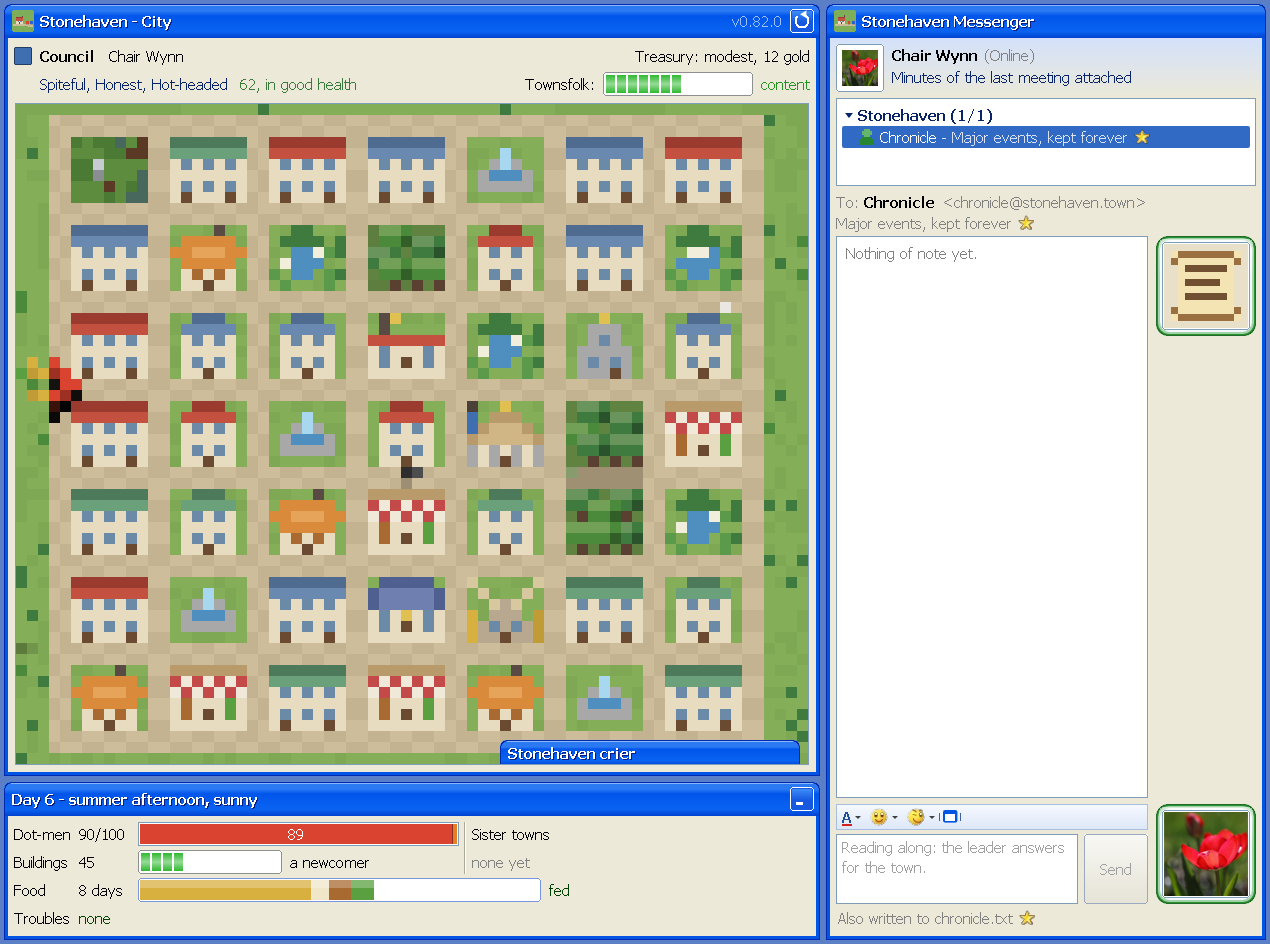
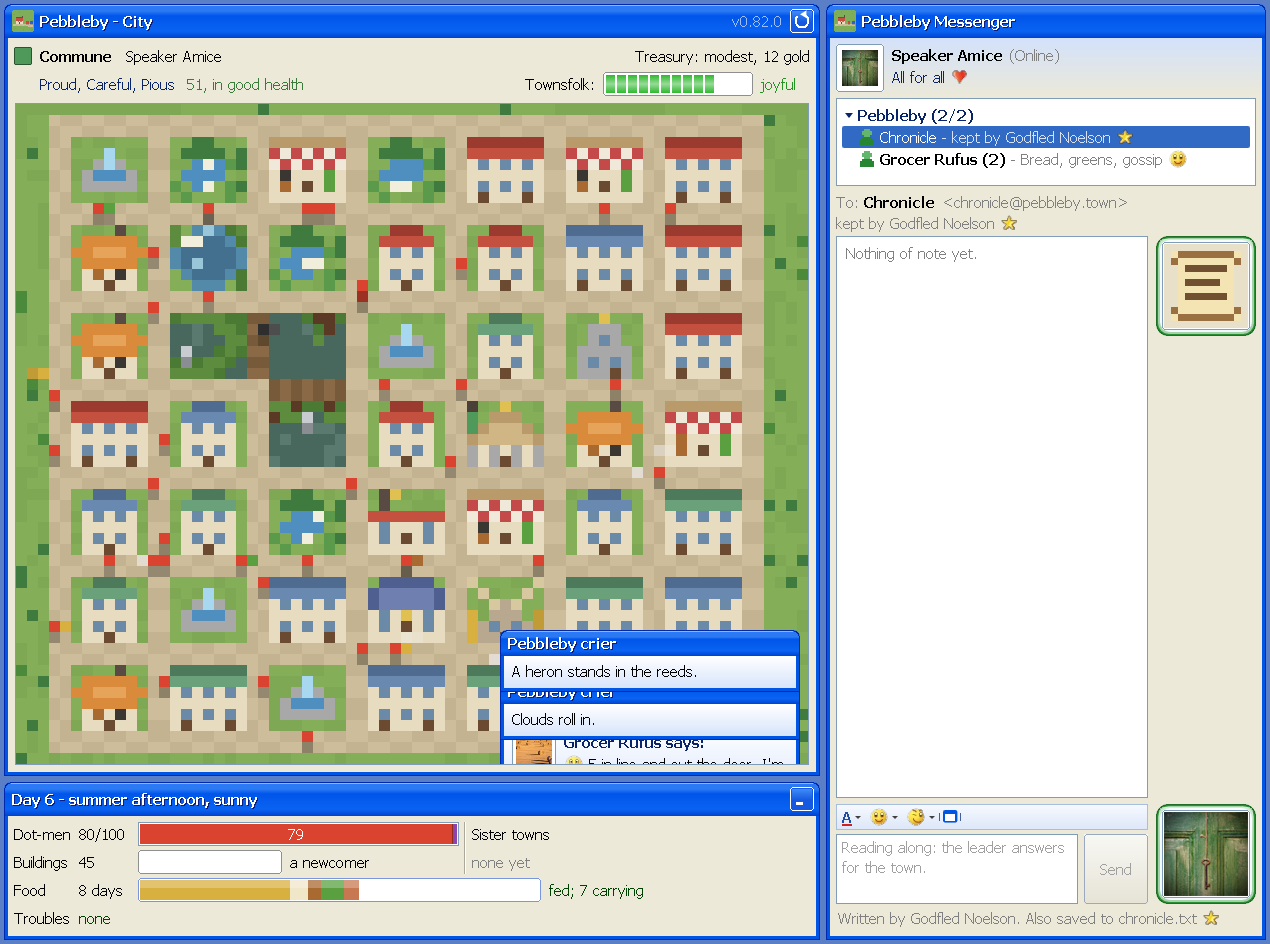
README: screenshot with dot-men spread through the streets

diff --git a/README.md b/README.md
@@ -5,7 +5,7 @@ the leader's seat but pull no levers: the townsfolk live, marry, fall ill, quarr
 Each town has its own landscape and land (groves, ponds, rocks, marsh), a rule that can change hands, sister towns,
 and a Messenger where the leader's friends, rivals and the chronicle talk.
 
-![A city in summer, with groves among the houses](docs/screenshot.png)
+![A city in summer, with a marsh and pond joined by a boardwalk](docs/screenshot.png)
 
 ## Install
 There is no release download. Dotburg runs on the owner's PC only.
